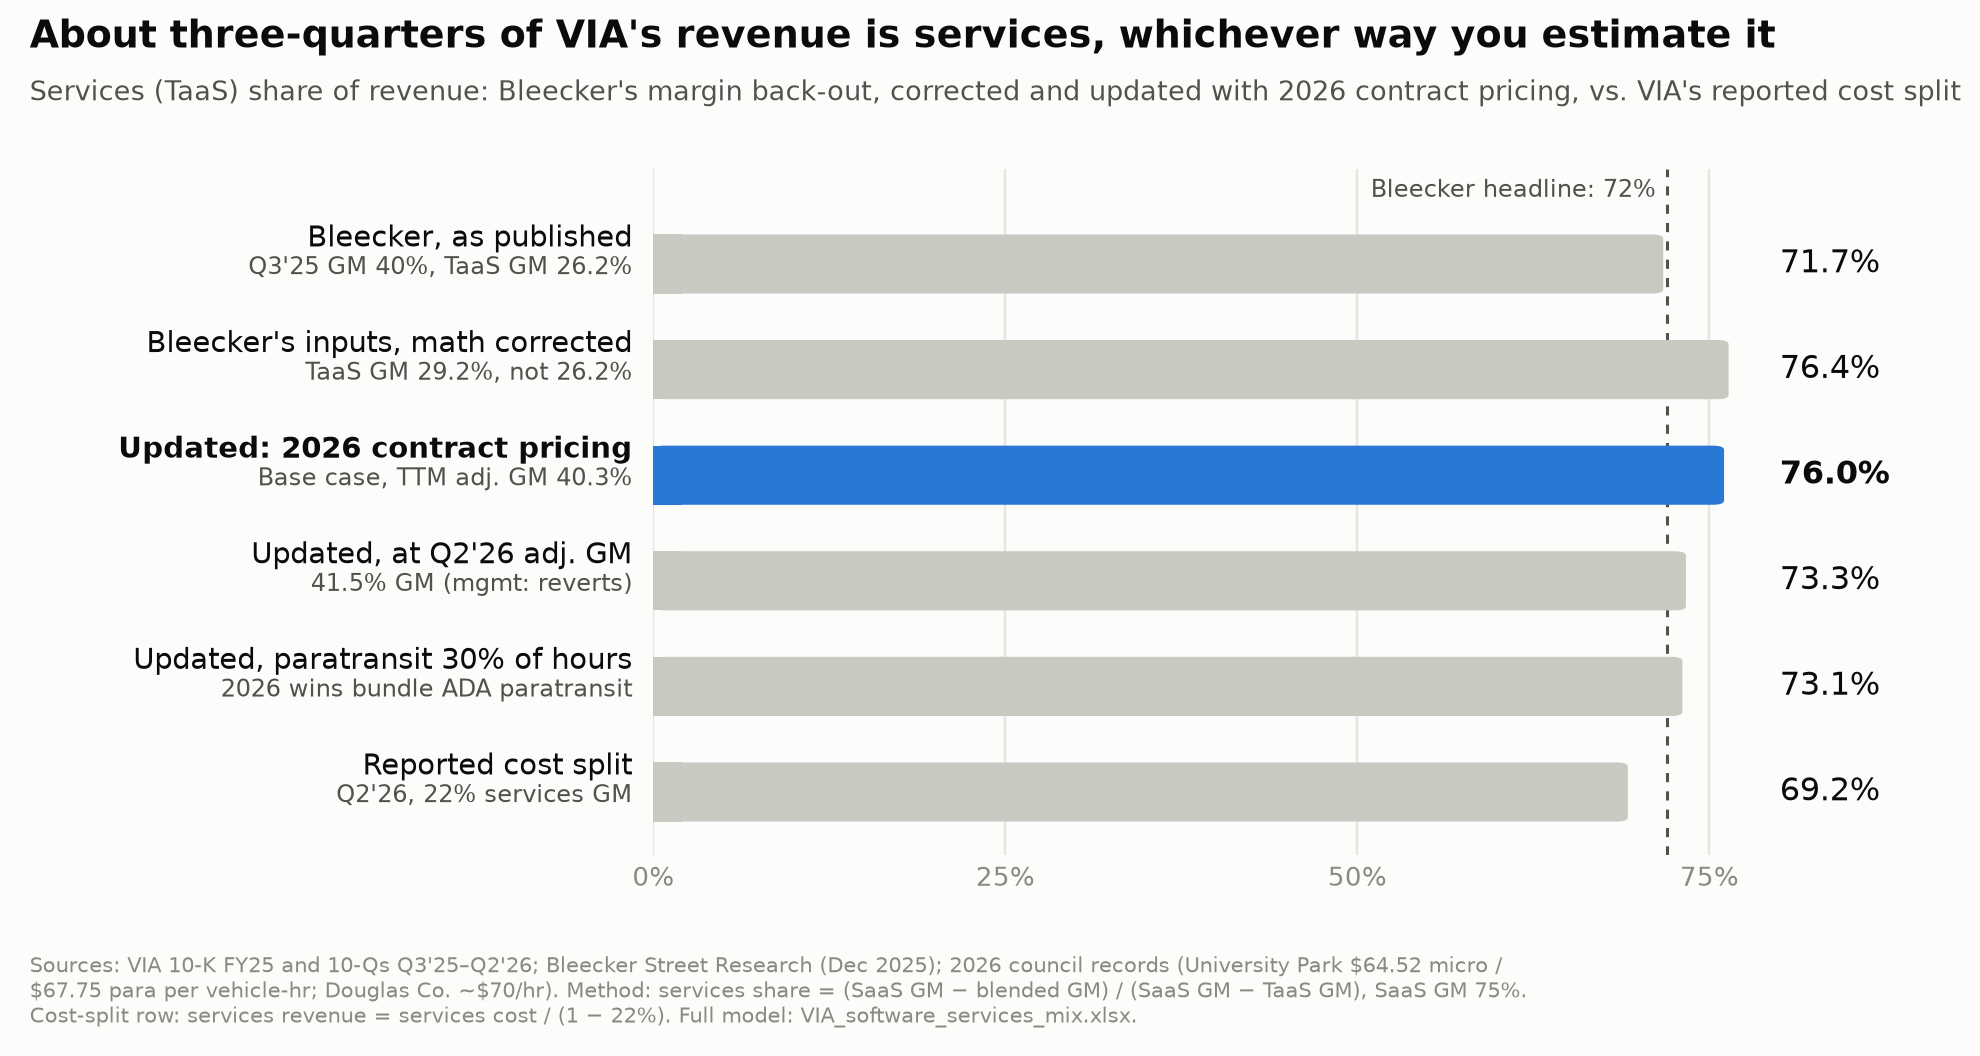
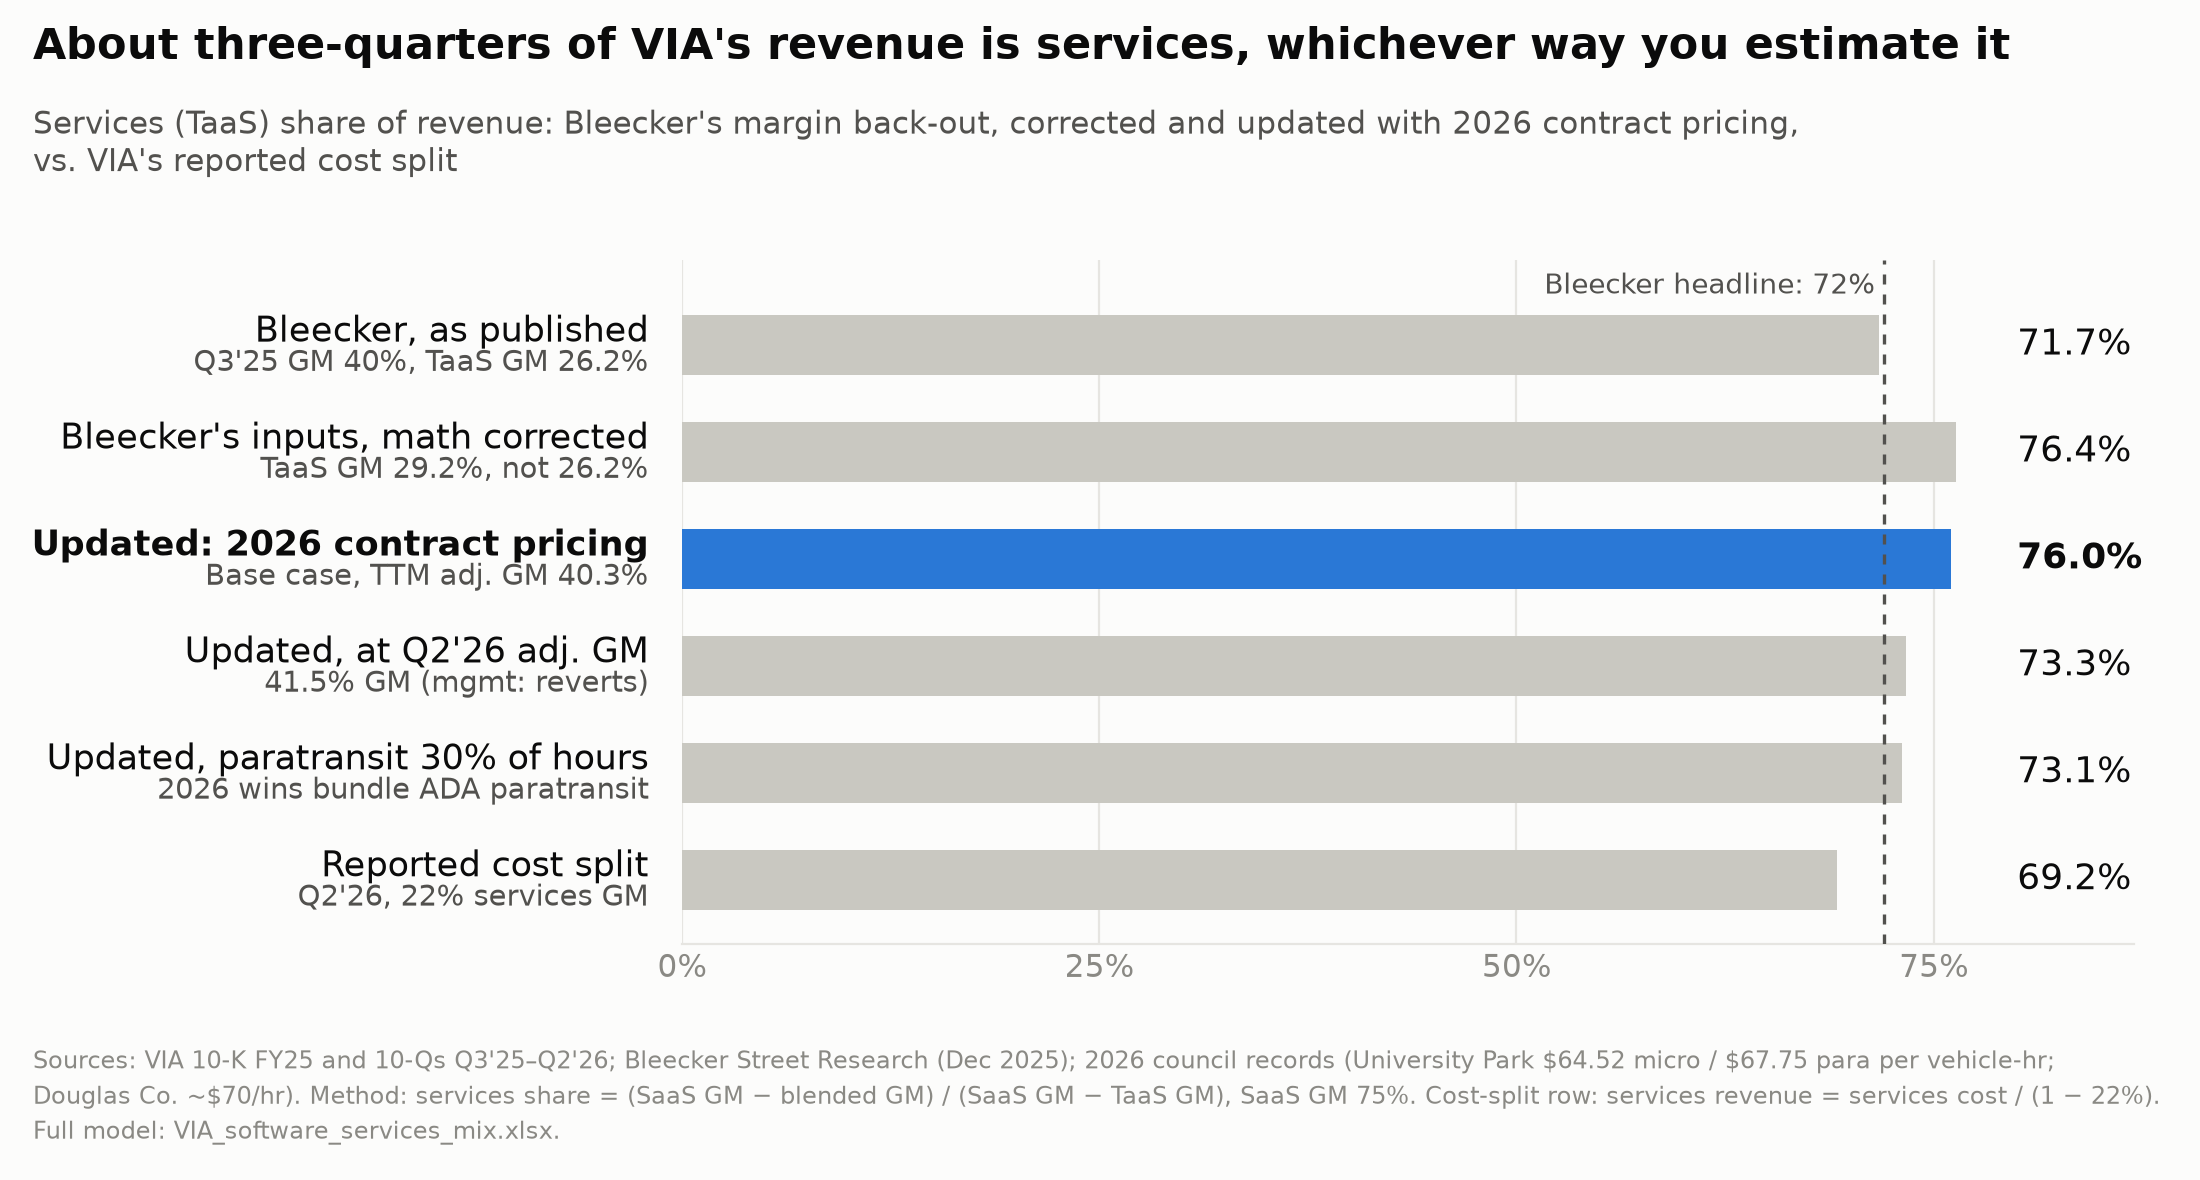
Add appendix charts: services mix and contract values
Both built from VIA_software_services_mix.xlsx (Summary and Contracts
tabs) by model/make_appendix_charts.py.

Claude-Session: https://claude.ai/code/session_01SeH2hRmBJJDZz9MSQAPubz

diff --git a/model/make_appendix_charts.py b/model/make_appendix_charts.py
@@ -1,0 +1,147 @@
+"""Appendix charts built from VIA_software_services_mix.xlsx.
+
+  appendix_services_mix_chart.png  - services share of revenue, by estimation method (Summary tab)
+  appendix_contracts_chart.png     - annualized contract value, services vs software (Contracts tab)
+
+Run: python3 model/make_appendix_charts.py
+"""
+import os
+import openpyxl
+import matplotlib
+matplotlib.use("Agg")
+import matplotlib.pyplot as plt
+from matplotlib.patches import FancyBboxPatch
+
+HERE = os.path.dirname(os.path.abspath(__file__))
+wb = openpyxl.load_workbook(os.path.join(HERE, "VIA_software_services_mix.xlsx"), data_only=True)
+
+SURFACE, INK, INK2, MUTED, GRID = "#fcfcfb", "#0b0b0b", "#52514e", "#8a8984", "#e6e5e1"
+BLUE, ORANGE, NEUTRAL = "#2a78d6", "#eb6834", "#c9c8c1"
+plt.rcParams.update({"font.family": "DejaVu Sans", "text.color": INK, "axes.labelcolor": INK2,
+                     "xtick.color": MUTED, "ytick.color": INK})
+
+
+def rounded_barh(ax, y, left, width, height, color, zorder=3):
+    """Horizontal bar with a 4px-ish rounded data end, square at the baseline."""
+    ax.barh(y, width, left=left, height=height, color=color, zorder=zorder, linewidth=0)
+
+
+def frame(ax):
+    for s in ["top", "right", "left"]:
+        ax.spines[s].set_visible(False)
+    ax.spines["bottom"].set_color(GRID)
+    ax.tick_params(axis="y", length=0)
+    ax.tick_params(axis="x", length=0, labelsize=11)
+    ax.set_facecolor(SURFACE)
+
+
+# ------------------------------------------------------------------ 1) services mix
+s = wb["Summary"]
+rows = [
+    ("Bleecker, as published", "Q3'25 GM 40%, TaaS GM 26.2%", s["B5"].value),
+    ("Bleecker's inputs, math corrected", "TaaS GM 29.2%, not 26.2%", s["B6"].value),
+    ("Updated: 2026 contract pricing", "Base case, TTM adj. GM 40.3%", s["B7"].value),
+    ("Updated, at Q2'26 adj. GM", "41.5% GM (mgmt: reverts)", s["B8"].value),
+    ("Updated, paratransit 30% of hours", "2026 wins bundle ADA paratransit", s["B9"].value),
+    ("Reported cost split", "Q2'26, 22% services GM", s["B14"].value),
+]
+HL = 2  # highlighted base case
+
+fig, ax = plt.subplots(figsize=(11, 5.9), dpi=200)
+fig.patch.set_facecolor(SURFACE)
+ys = list(range(len(rows)))[::-1]
+for y, (lab, sub, v), i in zip(ys, rows, range(len(rows))):
+    rounded_barh(ax, y, 0, v, 0.56, BLUE if i == HL else NEUTRAL)
+    ax.text(0.80, y, f"{v:.1%}", va="center", ha="left", fontsize=13,
+            fontweight="bold" if i == HL else "normal", color=INK)
+    ax.text(-0.02, y + 0.12, lab, ha="right", va="center", fontsize=12.5,
+            fontweight="bold" if i == HL else "normal", color=INK)
+    ax.text(-0.02, y - 0.17, sub, ha="right", va="center", fontsize=10.5, color=INK2)
+ax.axvline(0.72, color=INK2, lw=1.2, ls=(0, (3, 3)), zorder=4)
+ax.text(0.715, len(rows) - 0.45, "Bleecker headline: 72%", ha="right", va="center", fontsize=10, color=INK2)
+ax.set_xlim(0, 0.87)
+ax.set_ylim(-0.6, len(rows) - 0.2)
+ax.set_xticks([0, 0.25, 0.5, 0.75])
+ax.set_xticklabels(["0%", "25%", "50%", "75%"])
+ax.set_yticks([])
+ax.grid(axis="x", color=GRID, lw=0.8, zorder=0)
+frame(ax)
+fig.subplots_adjust(left=0.31, right=0.97, top=0.78, bottom=0.2)
+fig.text(0.015, 0.95, "About three-quarters of VIA's revenue is services, whichever way you estimate it",
+         fontsize=15.5, fontweight="bold", color=INK)
+fig.text(0.015, 0.855, "Services (TaaS) share of revenue: Bleecker's margin back-out, corrected and updated with 2026 "
+         "contract pricing,\nvs. VIA's reported cost split", fontsize=11, color=INK2)
+fig.text(0.015, 0.035,
+         "Sources: VIA 10-K FY25 and 10-Qs Q3'25–Q2'26; Bleecker Street Research (Dec 2025); 2026 council records "
+         "(University Park \\$64.52 micro / \\$67.75 para per vehicle-hr;\nDouglas Co. ~$70/hr). Method: services share = "
+         "(SaaS GM − blended GM) / (SaaS GM − TaaS GM), SaaS GM 75%. Cost-split row: services revenue = services cost / "
+         "(1 − 22%).\nFull model: VIA_software_services_mix.xlsx.", fontsize=8.5, color=MUTED, linespacing=1.5)
+fig.savefig(os.path.join(HERE, "appendix_services_mix_chart.png"), facecolor=SURFACE)
+plt.close(fig)
+
+# ------------------------------------------------------------------ 2) contracts
+c = wb["Contracts"]
+SHORT = {
+    1: "LA Metro – Metro Micro ops", 2: "Arlington, TX – On-Demand", 3: "DCTA GoZone (Denton Co., TX)",
+    4: "King County Metro – Metro Flex", 5: "Mobile, AL – The Wave (full network)", 6: "New Braunfels, TX",
+    7: "Miami-Dade", 8: "Lorain County, OH", 9: "Gastonia, NC", 10: "Texas customer (Q4'25 call)",
+    13: "Transport for London – software only", 15: "Plano, TX – Plano Rides", 16: "Douglas Co., CO – Link",
+    17: "Addison, TX – Orbit", 20: "Highland Park, TX", 21: "University Park, TX – paratransit",
+    24: "Douglas Co., CO – Castle Rock", 25: "Cobb County, GA – expansion", 26: "Jersey City, NJ – service cut",
+}
+data = []
+for r in range(5, 32):
+    n, when, ann, sw, sv, basis = (c[f"A{r}"].value, c[f"D{r}"].value, c[f"K{r}"].value,
+                                   c[f"M{r}"].value, c[f"N{r}"].value, c[f"O{r}"].value)
+    if not ann or n not in SHORT:
+        continue
+    yr = str(when)[:4]
+    data.append(dict(name=f"{SHORT[n]} ({yr})", ann=ann, sw=sw or 0, sv=sv or 0, basis=basis))
+pos = sorted([d for d in data if d["ann"] > 0], key=lambda d: d["ann"])
+neg = [d for d in data if d["ann"] < 0]
+order = neg + pos
+tot_sw = sum(d["sw"] for d in pos)
+tot = sum(d["ann"] for d in pos)
+
+fig, ax = plt.subplots(figsize=(11, 8.2), dpi=200)
+fig.patch.set_facecolor(SURFACE)
+H = 0.62
+for y, d in enumerate(order):
+    if d["ann"] < 0:
+        rounded_barh(ax, y, 0, d["ann"], H, NEUTRAL)
+        ax.text(0.3, y, f"−${-d['ann']:.1f}M/yr (hours cut, Saturday service ended)", va="center", ha="left",
+                fontsize=10.5, color=INK)
+        continue
+    rounded_barh(ax, y, 0, d["sv"], H, BLUE)
+    if d["sw"] > 0:
+        gap = 0.08 if d["sv"] > 0 else 0
+        rounded_barh(ax, y, d["sv"] + gap, max(d["sw"] - gap, 0.05), H, ORANGE)
+    ax.text(d["ann"] + 0.3, y, f"${d['ann']:.1f}M", va="center", ha="left", fontsize=10.5, color=INK)
+ax.set_yticks(range(len(order)))
+ax.set_yticklabels([d["name"] for d in order], fontsize=10.5)
+ax.axvline(0, color=INK2, lw=0.8, zorder=4)
+ax.set_xlim(-5, 26)
+ax.set_xticks([0, 5, 10, 15, 20, 25])
+ax.set_xticklabels(["$0", "$5M", "$10M", "$15M", "$20M", "$25M"])
+ax.grid(axis="x", color=GRID, lw=0.8, zorder=0)
+frame(ax)
+# legend (2 series + the reduction)
+from matplotlib.patches import Patch
+ax.legend(handles=[Patch(color=BLUE, label="Services (drivers, vehicles, operations)"),
+                   Patch(color=ORANGE, label="Software"),
+                   Patch(color=NEUTRAL, label="Spending cut")],
+          loc="center right", frameon=False, fontsize=10.5)
+fig.subplots_adjust(left=0.34, right=0.97, top=0.84, bottom=0.13)
+fig.text(0.015, 0.955, "VIA's contracts are services contracts", fontsize=15.5, fontweight="bold", color=INK)
+fig.text(0.015, 0.885, f"Annualized contract value by customer: software is {tot_sw / tot:.0%} of the "
+         f"${tot:.0f}M shown.\nAlmost every deal is turnkey: VIA supplies the drivers and vehicles.",
+         fontsize=11, color=INK2)
+fig.text(0.015, 0.025,
+         "Sources: council and board records (LA Metro Nov 2024; Arlington Dec 2024; DCTA Sep 2023; Mobile Sep 2025; "
+         "Plano Feb 2026;\nCobb Co. Sep 2026; Jersey City Jul 2026), TfL award, VIA Q4'25 call. Software share is "
+         "disclosed where a price schedule itemizes it (LA Metro 0%,\nDCTA 0%, Texas example 0.4%, TfL 100%); other "
+         "turnkey deals assume 4%. Short pilots annualized. Full tracker: VIA_software_services_mix.xlsx, Contracts tab.",
+         fontsize=8.5, color=MUTED, linespacing=1.5)
+fig.savefig(os.path.join(HERE, "appendix_contracts_chart.png"), facecolor=SURFACE)
+plt.close(fig)
+print("saved", tot, tot_sw, [(d["name"], round(d["ann"], 2)) for d in order])
